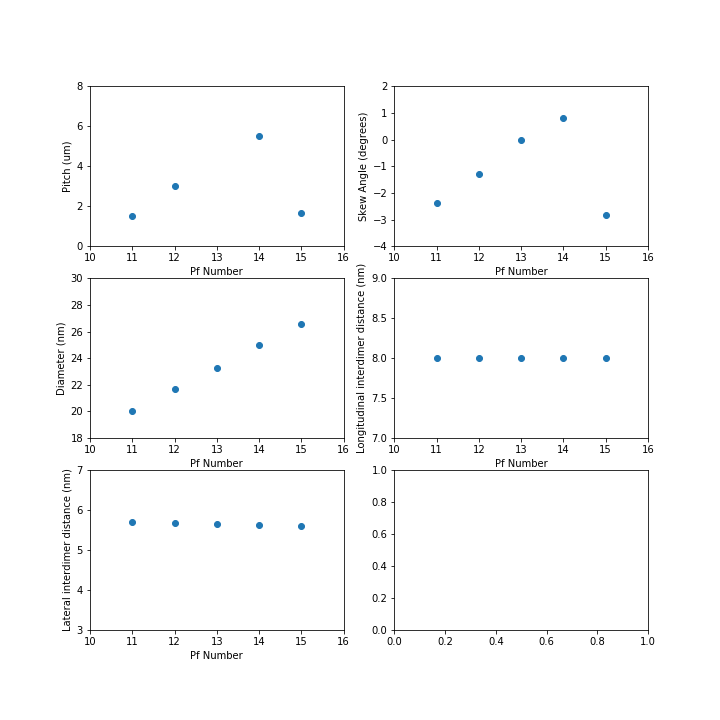
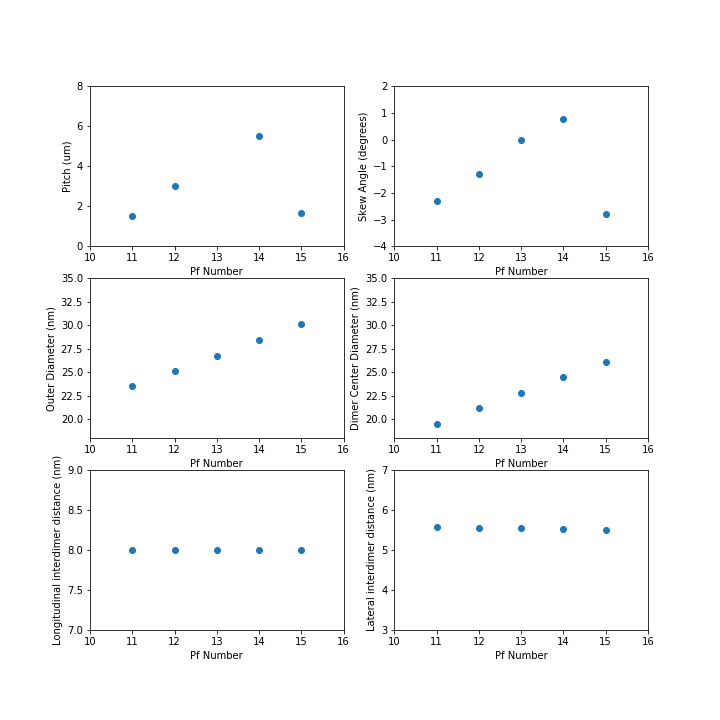
Last 3d structure fixes

diff --git a/anamic/structure.py b/anamic/structure.py
@@ -38,7 +38,7 @@ def get_dimer_positions(dimers):
     long_dimer_distance = 8  # nm
 
     # Calculate the radius of the MT from n_pf
-    mt_radius = ((16.4 * n_pf + 20) / 2) / 10
+    mt_radius = ((16.4 * n_pf + 15) / 2) / 10
 
     # The dimer_factor is needed because we calculate theta from
     # dimer's center to dimer's center (not from monomer center).
